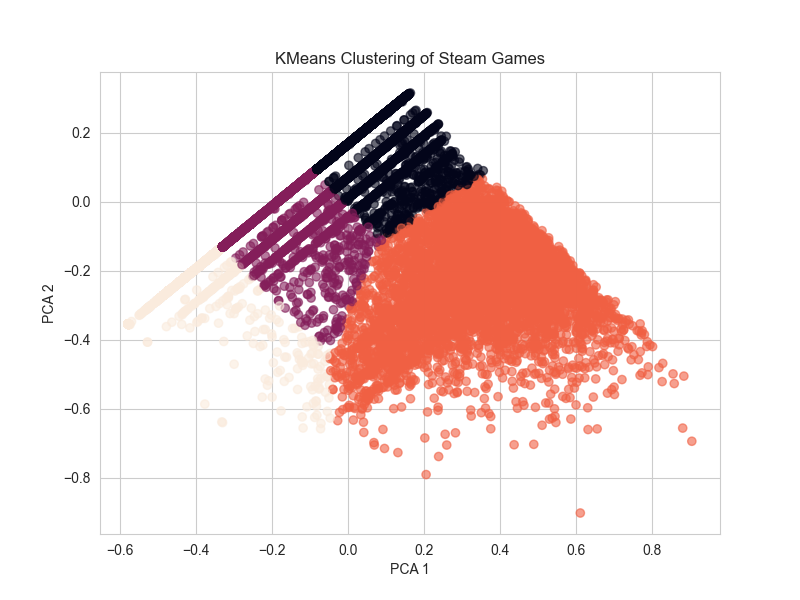
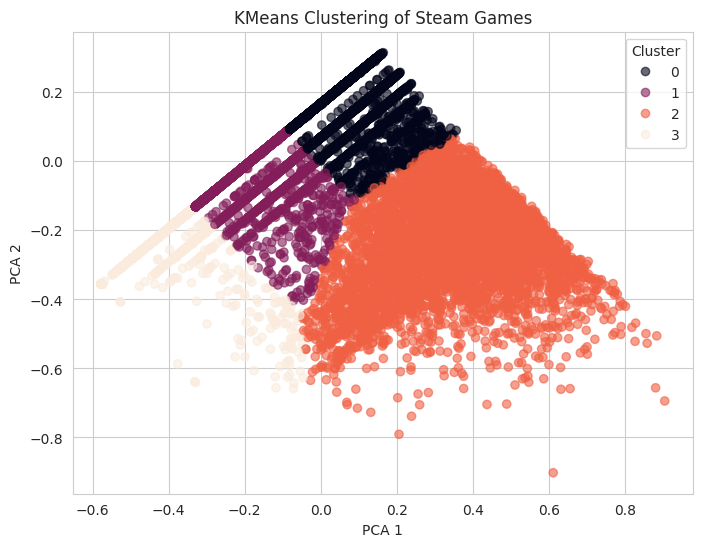
Remove classification module

diff --git a/scripts/eda.py b/scripts/eda.py
@@ -48,18 +48,20 @@ def run_eda():
     plt.figure(figsize=(8,5))
 
     plt.hist(
-        np.log1p(df['price']),
+        df['price'],
         bins=30
     )
 
-    plt.title("Log Price Distribution")
+    plt.yscale('log')
 
-    plt.xlabel("Log(Price + 1)")
+    plt.title("Price Distribution")
+
+    plt.xlabel("Price")
 
     plt.ylabel("Frequency")
 
     plt.savefig(
-        "plots/01_log_price_distribution.png"
+        "plots/01_price_distribution.png"
     )
 
     plt.show()

diff --git a/scripts/clustering.py b/scripts/clustering.py
@@ -33,7 +33,7 @@ def run_clustering(
 
     plt.figure(figsize=(8,6))
 
-    plt.scatter(
+    scatter = plt.scatter(
         df['pca1'],
         df['pca2'],
         c=df['cluster'],
@@ -50,6 +50,11 @@ def run_clustering(
 
     plt.ylabel(
         "PCA 2"
+    )
+
+    plt.legend(
+        *scatter.legend_elements(),
+        title="Cluster"
     )
 
     plt.savefig(
